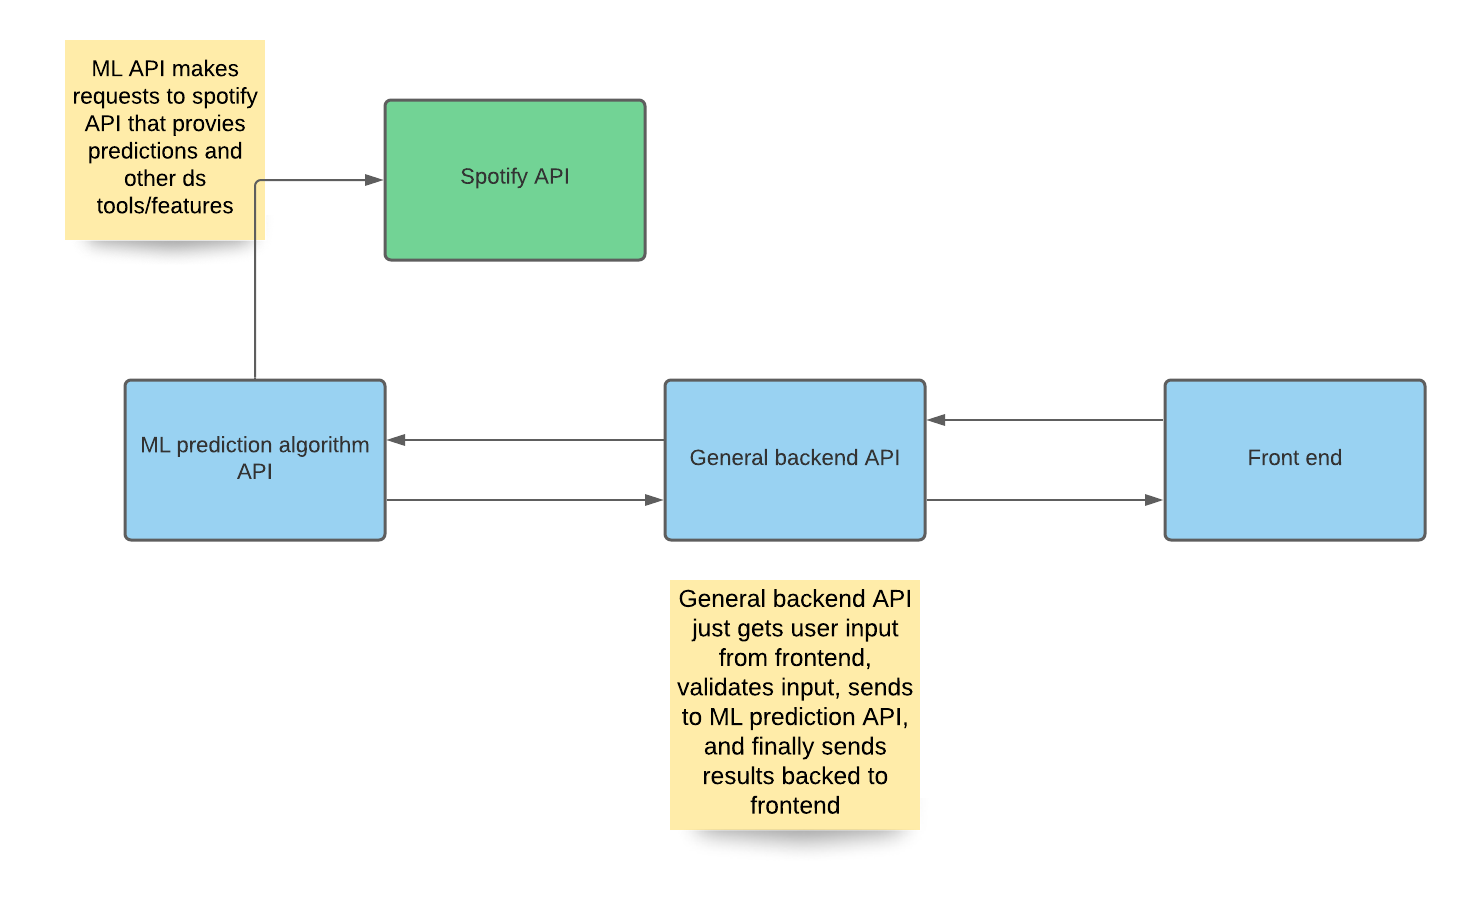
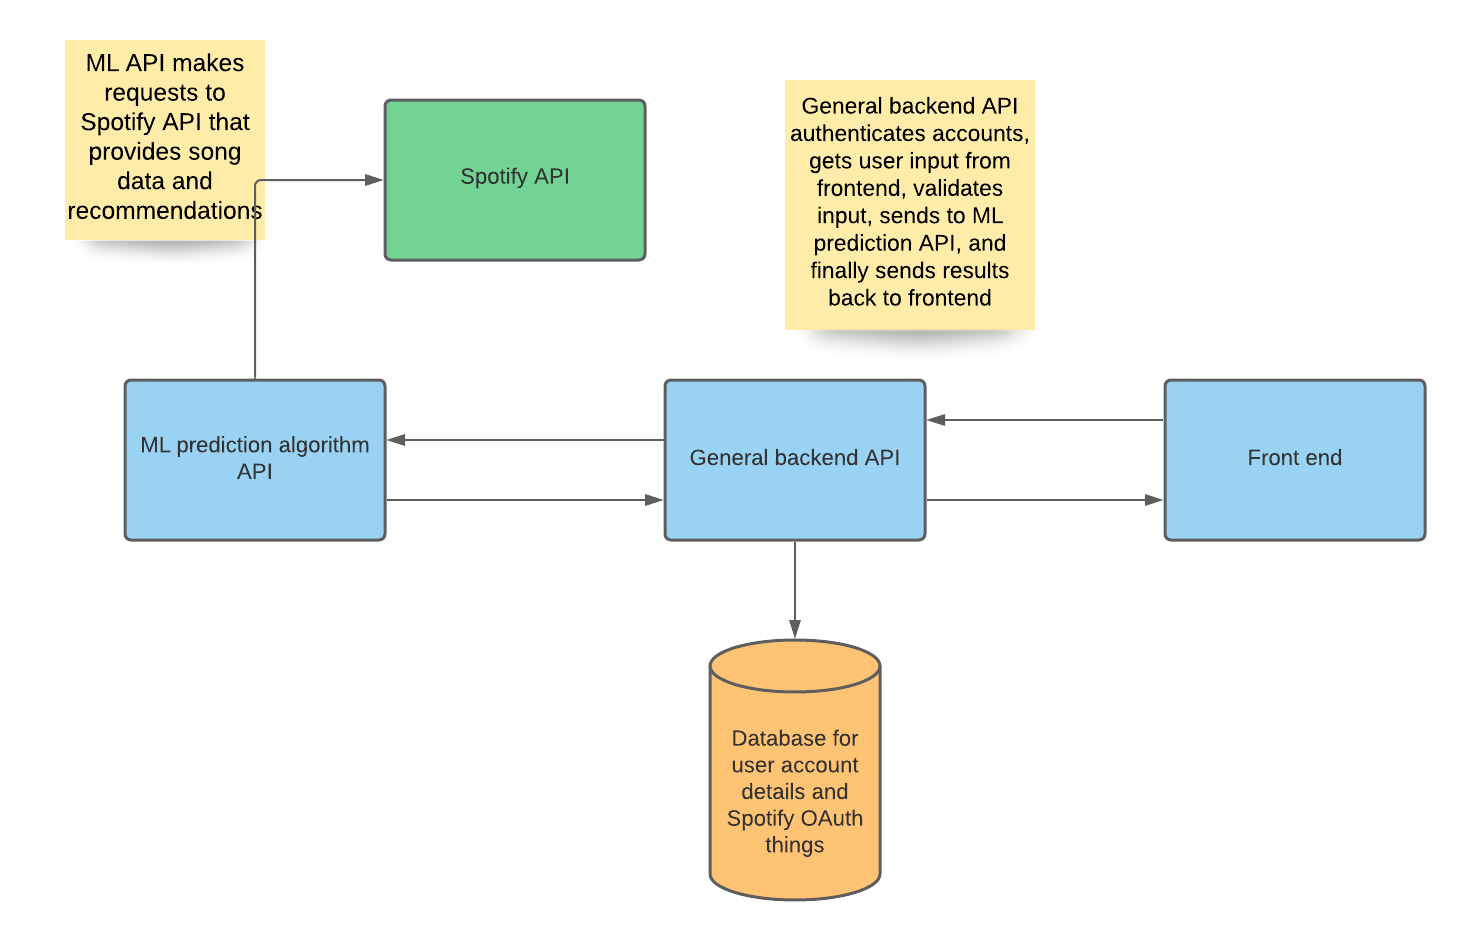
update readme

diff --git a/readme.md b/readme.md
@@ -1,8 +1,22 @@
 ## Project Abstract
 
-![project_diagram](/images/project_diagram.png)A web application that adds functionality to Spotify. The idea for this app is to make a collaborative playlist between two people. The idea is not for it to be manually created but to create a Discover playlist between two users and their music interests. A *Discover* playlist, if you are not familiar, is a weekly or daily playlist, generated by Spotify prediction algorithms, of songs that you might like based on your previous listening history. This could be created without a web app of course, but, a web app could provide a user interface for non-technical users.
+![project_diagram](images/project_diagram.png)
+
+![Screen Shot 2020-09-12 at 12.14.54 PM](images/spotify_playlist.png)
+
+
+
+A web application that adds functionality to Spotify. The idea for this app is to make a collaborative playlist between two people. The idea is not for it to be manually created but to create a Discover playlist between two users and their music interests. A *Discover* playlist, if you are not familiar, is a weekly or daily playlist, generated by Spotify prediction algorithms, of songs that you might like based on your previous listening history. This could be created without a web app of course, but, a web app could provide a user interface for non-technical users.
+
+
 
 TLDR:  Curate a Spotify Discover playlist between two users.
+
+
+
+**Rough explanation:**
+
+Spotify provides audio features of songs via [API](https://developer.spotify.com/). So the application might work something like the following. Get userA top listened to songs. Get userB top listened to songs. Get the features for both sets of songs. Perform some ML algorithm (tbd which one) to find the tracks between both users that are the most alike - because we're looking for similarity between userA set of music and userB set of music. Given that we have ranked/grouped both users most listened to songs, we can then feed those to Spotify forDevelopopers [recommendations](https://developer.spotify.com/documentation/web-api/reference/browse/get-recommendations/) endpoint and generate a list of songs. Lastly, we have the app create a new playlist in one of the two users' account and load the recommended songs into the playlist.
 
 
 
@@ -15,8 +29,7 @@ This project could be relevant for the following reasons:
 - Interacting with web APIS (such as the Spotify API)
 - API will use JSON and perform some of the CRUD operations
 - Unit testing
-- Parallel computing by way of AWS or other cloud providers (If project was hosted)
-- May need a Relational Database System (not sure yet)
+- Access to Relational Database System
 
 
 
@@ -28,22 +41,26 @@ This is not an existing open source project so the group will just create the we
 
 ## Background
 
-**URL:** 
+**URL:**
 
 https://github.com/jakemcannon/3308_spotify_project
 
+
+
 **Running:**
 
-- Build your Flask image:
+- Clone this repo
+
+- Build your base Python/Flask image:
 
 ```
-docker build -t 3308_spotify_project .
+docker build -t 3296_spotify_project .
 ```
 
 - Run a container based on your image:
 
 ```
-docker run -d --name 3308_spotify_project -p 80:80 3308_spotify_project
+docker run -d --name 3296_spotify_project -p 80:80 3296_spotify_project
 ```
 
 - Navigate to localhost at
@@ -55,13 +72,13 @@ http://127.0.0.1/
 - To shut down the container
 
 ```
-docker container stop 3308_spotify_project
+docker container stop 3296_spotify_project
 ```
 
 - To start a previously shut down container
 
 ```
-docker start 3308_spotify_project
+docker start 3296_spotify_project
 ```
 
 
